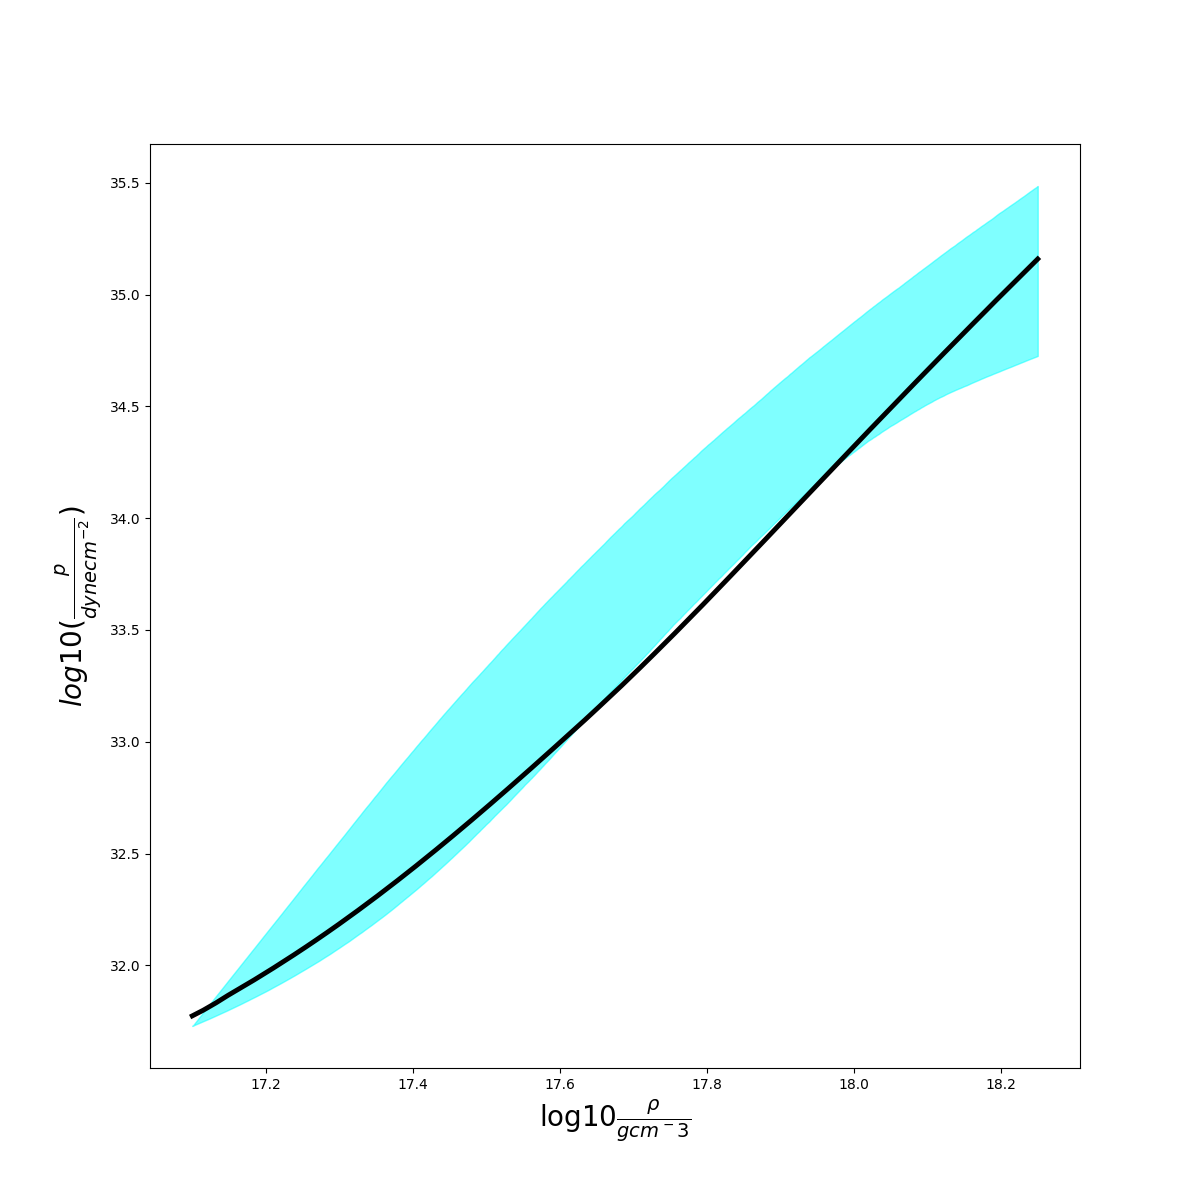
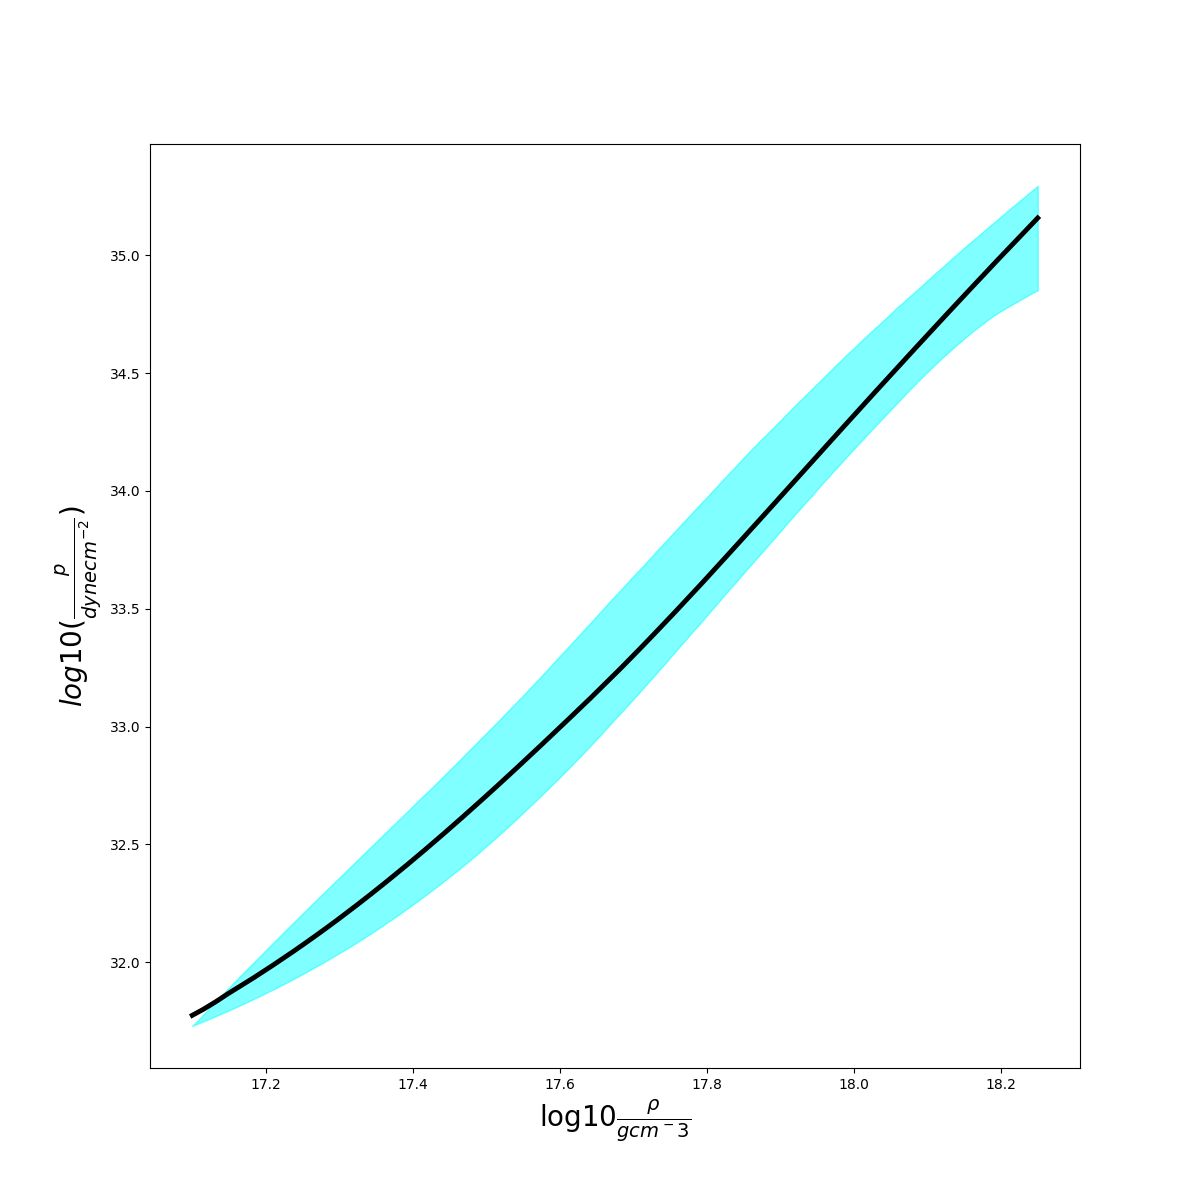
Obtained the actual 3D Phenom GW170817 constraint! Also, no more grey background.

diff --git a/year3/lastStretch/eventConstraint.py b/year3/lastStretch/eventConstraint.py
@@ -17,14 +17,18 @@ def calcConstraint1():
     # may be harder than the simple use of fig.show(). Old script used to this.
 
     #Array Containing list of paths to the .dat files  containing the posterior samples for the events:
-    uLTs_File = "/home/michael/projects/eos/GWXtreme_Tasks/year2/bilby_runs/simulations/outdir/real/uniformP_LTs/GW170817/simplified_result.json" 
-    uLs_File = "/home/michael/projects/eos/GWXtreme_Tasks/year3/GW170817_prior_L1L2/CIT_attempt_successful/outdir/simplified_result.json"
-    uLs_phenom_File = "/home/michael/projects/eos/GWXtreme_Tasks/year3/lastStretch/files/GW170817phenom.json"
-    filesToCompare = [uLTs_File,uLs_File,uLs_phenom_File]
+    #uLTs_File = "/home/michael/projects/eos/GWXtreme_Tasks/year2/bilby_runs/simulations/outdir/real/uniformP_LTs/GW170817/simplified_result.json" 
+    #uLs_File = "/home/michael/projects/eos/GWXtreme_Tasks/year3/GW170817_prior_L1L2/CIT_attempt_successful/outdir/simplified_result.json"
+    uLs_phenom_File = "/home/michael/projects/eos/GWXtreme_Tasks/year3/lastStretch/files/BNS/GW170817phenom.json"
+    #filesToCompare = [uLTs_File,uLs_File,uLs_phenom_File]
+    filesToCompare = [uLs_phenom_File] # Trying just Phenom again
 
-    labels = ["2D KDE TaylorF2", "3D KDE TaylorF2", "3D KDE PhenomNRT"]
-    Labels = ["2D-KDE-TaylorF2", "3D-KDE-TaylorF2", "3D-KDE-PhenomNRT"]
-    dims = [2,3,3]
+    #labels = ["2D KDE TaylorF2", "3D KDE TaylorF2", "3D KDE PhenomNRT"]
+    labels = ["3D KDE PhenomNRT"]
+    #Labels = ["2D-KDE-TaylorF2", "3D-KDE-TaylorF2", "3D-KDE-PhenomNRT"]
+    Labels = ["3D-KDE-PhenomNRT"]
+    #dims = [2,3,3]
+    dims = [3]
 
     for ii in range(len(filesToCompare)):
 
@@ -53,7 +57,8 @@ def calcConstraint1():
 def calcConstraint2(burn_in_frac=0.5,thinning=None):
     # Adopted from Anarya's GWXtreme 3d kde prod branch's plotting logic.
 
-    Labels = ["2D-KDE-TaylorF2", "3D-KDE-TaylorF2", "3D-KDE-PhenomNRT"]
+    #Labels = ["2D-KDE-TaylorF2", "3D-KDE-TaylorF2", "3D-KDE-PhenomNRT"]
+    Labels = ["3D-KDE-PhenomNRT"]
     for label in Labels:
         # Load the samples
         filename='data/BNS/constraints/{}_GW170817inference_10000samp.h5'.format(label)
@@ -133,28 +138,28 @@ def CalcConstraint2():
 def plotConstraint():
     # Adopted from Anarya's GWXtreme 3d kde prod branch's plotting logic.
 
-    #labels = ["2D-KDE-TaylorF2", "3D-KDE-TaylorF2", "3D-KDE-PhenomNRT"] # for three methods being compared
+    labels = ["2D-KDE-TaylorF2", "3D-KDE-TaylorF2", "3D-KDE-PhenomNRT"] # for three methods being compared
     #labels = ["3D-KDE-PhenomNRT", "lalsim_nest-PhenomNRT"]
-    labels = ["2D-KDE-TaylorF2", "3D-KDE-PhenomNRT", "lalsim_nest-PhenomNRT"]
+    #labels = ["2D-KDE-TaylorF2", "3D-KDE-PhenomNRT", "lalsim_nest-PhenomNRT"]
 
-    #Labels = ["2D KDE TaylorF2", "3D KDE TaylorF2", "3D KDE IMRPhenomPv2_NRTidal"] # for three methods being compared
+    Labels = ["2D KDE TaylorF2", "3D KDE TaylorF2", "3D KDE IMRPhenomPv2_NRTidal"] # for three methods being compared
     #Labels = ["3D KDE IMRPhenomPv2_NRTidal", "full-parameter-space Nest runs"]
-    Labels = ["2D KDE TaylorF2", "3D KDE IMRPhenomPv2_NRTidal", "full-parameter-space Nest runs"]
+    #Labels = ["2D KDE TaylorF2", "3D KDE IMRPhenomPv2_NRTidal", "full-parameter-space Nest runs"]
 
-    #Colors = ['#ffffb3','#bebada','#fb8072'] # for three methods being compared
+    Colors = ['#ffffb3','#bebada','#fb8072'] # for three methods being compared
     #Colors = ['#beaed4','#fdc086']
-    Colors = ['#ffffb3','#beaed4','#fdc086']
+    #Colors = ['#ffffb3','#beaed4','#fdc086']
 
     plt.figure(figsize=(12,12))
     plt.rc('font', size=20)
-    plt.rc('axes', facecolor='#E6E6E6', edgecolor='black')
+    #plt.rc('axes', facecolor='#E6E6E6', edgecolor='black')
     plt.rc('xtick', direction='out', color='black')
     plt.rc('ytick', direction='out', color='black')
     plt.rc('lines', linewidth=2)
 
-    #Hatches = ["|","-",""] # for three methods being compared
+    Hatches = ["|","-",""] # for three methods being compared
     #Hatches = ["","x"]
-    Hatches = ["|","","x"]
+    #Hatches = ["|","","x"]
 
     for label, Label, Color, Hatch in zip(labels,Labels,Colors,Hatches): # increment over each plot file
 
@@ -176,7 +181,7 @@ def plotConstraint():
     plt.xlabel(r'$\log10{\frac{\rho}{g cm^-3}}$',fontsize=20)
     plt.ylabel(r'$log10(\frac{p}{dyne cm^{-2}})$',fontsize=20)
     plt.legend()
-    #plt.savefig("plots/BNS/constraints/GW170817_constraint1.png", bbox_inches='tight')
-    #plt.savefig("plots/BNS/constraints/GW170817_constraint2.png", bbox_inches='tight')
-    plt.savefig("plots/BNS/constraints/GW170817_constraint3.png", bbox_inches='tight')
+    plt.savefig("plots/BNS/constraints/GW170817_constraint1_10000samp.png", bbox_inches='tight')
+    #plt.savefig("plots/BNS/constraints/GW170817_constraint2_10000samp.png", bbox_inches='tight')
+    #plt.savefig("plots/BNS/constraints/GW170817_constraint3_10000samp.png", bbox_inches='tight')
 
